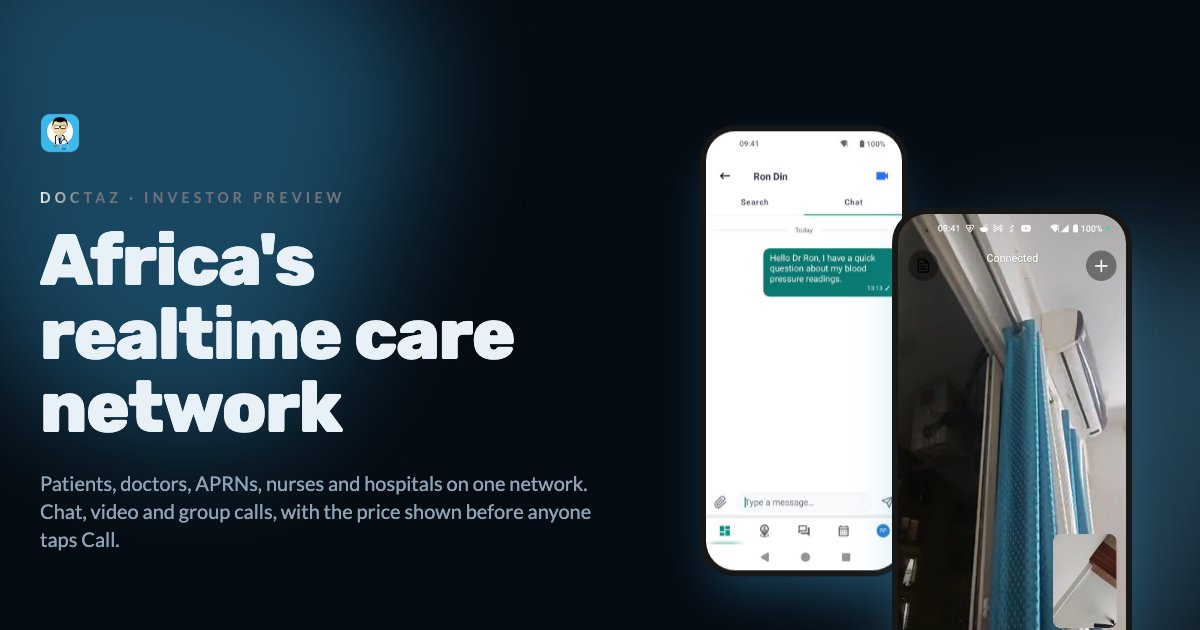
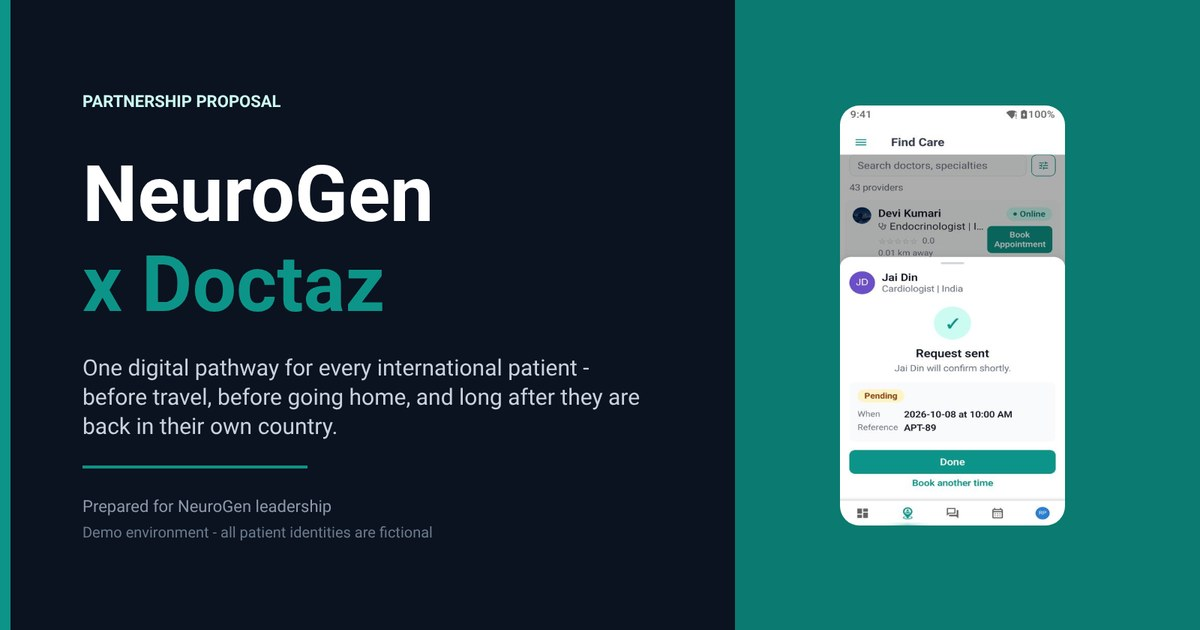
NeuroGen deck: fix the link preview shared to WhatsApp
The deck inherited the investor deck's head, so og:image still pointed at
/pitch/og.jpg and WhatsApp showed the investor card for a NeuroGen link. The
earlier patch only rewrote the title and description.

Link previews read the static head, never the React runtime, so every share-card
tag has to be written at publish time. publish.sh now rewrites og:image and adds
og:url, og:site_name, og:image:width/height/alt and the twitter:* pair, replacing
tags when present and inserting them when not.

og.jpg is now the deck's own title board, exported at 1200x630 and kept at 66 KB -
WhatsApp renders previews unreliably above roughly 300 KB.

diff --git a/pitch-neurogen/index.html b/pitch-neurogen/index.html
@@ -8,11 +8,19 @@
     <title>NeuroGen × Doctaz — Partnership Proposal</title>
     <meta property="og:title" content="NeuroGen × Doctaz — Partnership Proposal" />
     <meta property="og:description" content="One digital pathway for every international patient — before travel, before going home, and after they are back in their own country." />
-    <meta property="og:image" content="https://erdevkumar.github.io/doctaz-whats-new/pitch/og.jpg" />
+    <meta property="og:image" content="https://erdevkumar.github.io/doctaz-whats-new/pitch-neurogen/og.jpg" />
     <meta property="og:type" content="website" />
     <meta name="twitter:card" content="summary_large_image" />
     <script type="module" crossorigin src="./assets/index-CrI9qrrM.js"></script>
     <link rel="stylesheet" crossorigin href="./assets/index-BXuEqtnS.css">
+      <meta property="og:image:width" content="1200" />
+      <meta property="og:image:height" content="630" />
+      <meta property="og:image:alt" content="NeuroGen × Doctaz partnership proposal" />
+      <meta property="og:url" content="https://erdevkumar.github.io/doctaz-whats-new/pitch-neurogen/" />
+      <meta property="og:site_name" content="Doctaz" />
+      <meta name="twitter:title" content="NeuroGen × Doctaz — Partnership Proposal" />
+      <meta name="twitter:description" content="One digital pathway for every international patient — before travel, before going home, and after they are back in their own country." />
+      <meta name="twitter:image" content="https://erdevkumar.github.io/doctaz-whats-new/pitch-neurogen/og.jpg" />
   </head>
   <body>
     <div id="root"></div>
